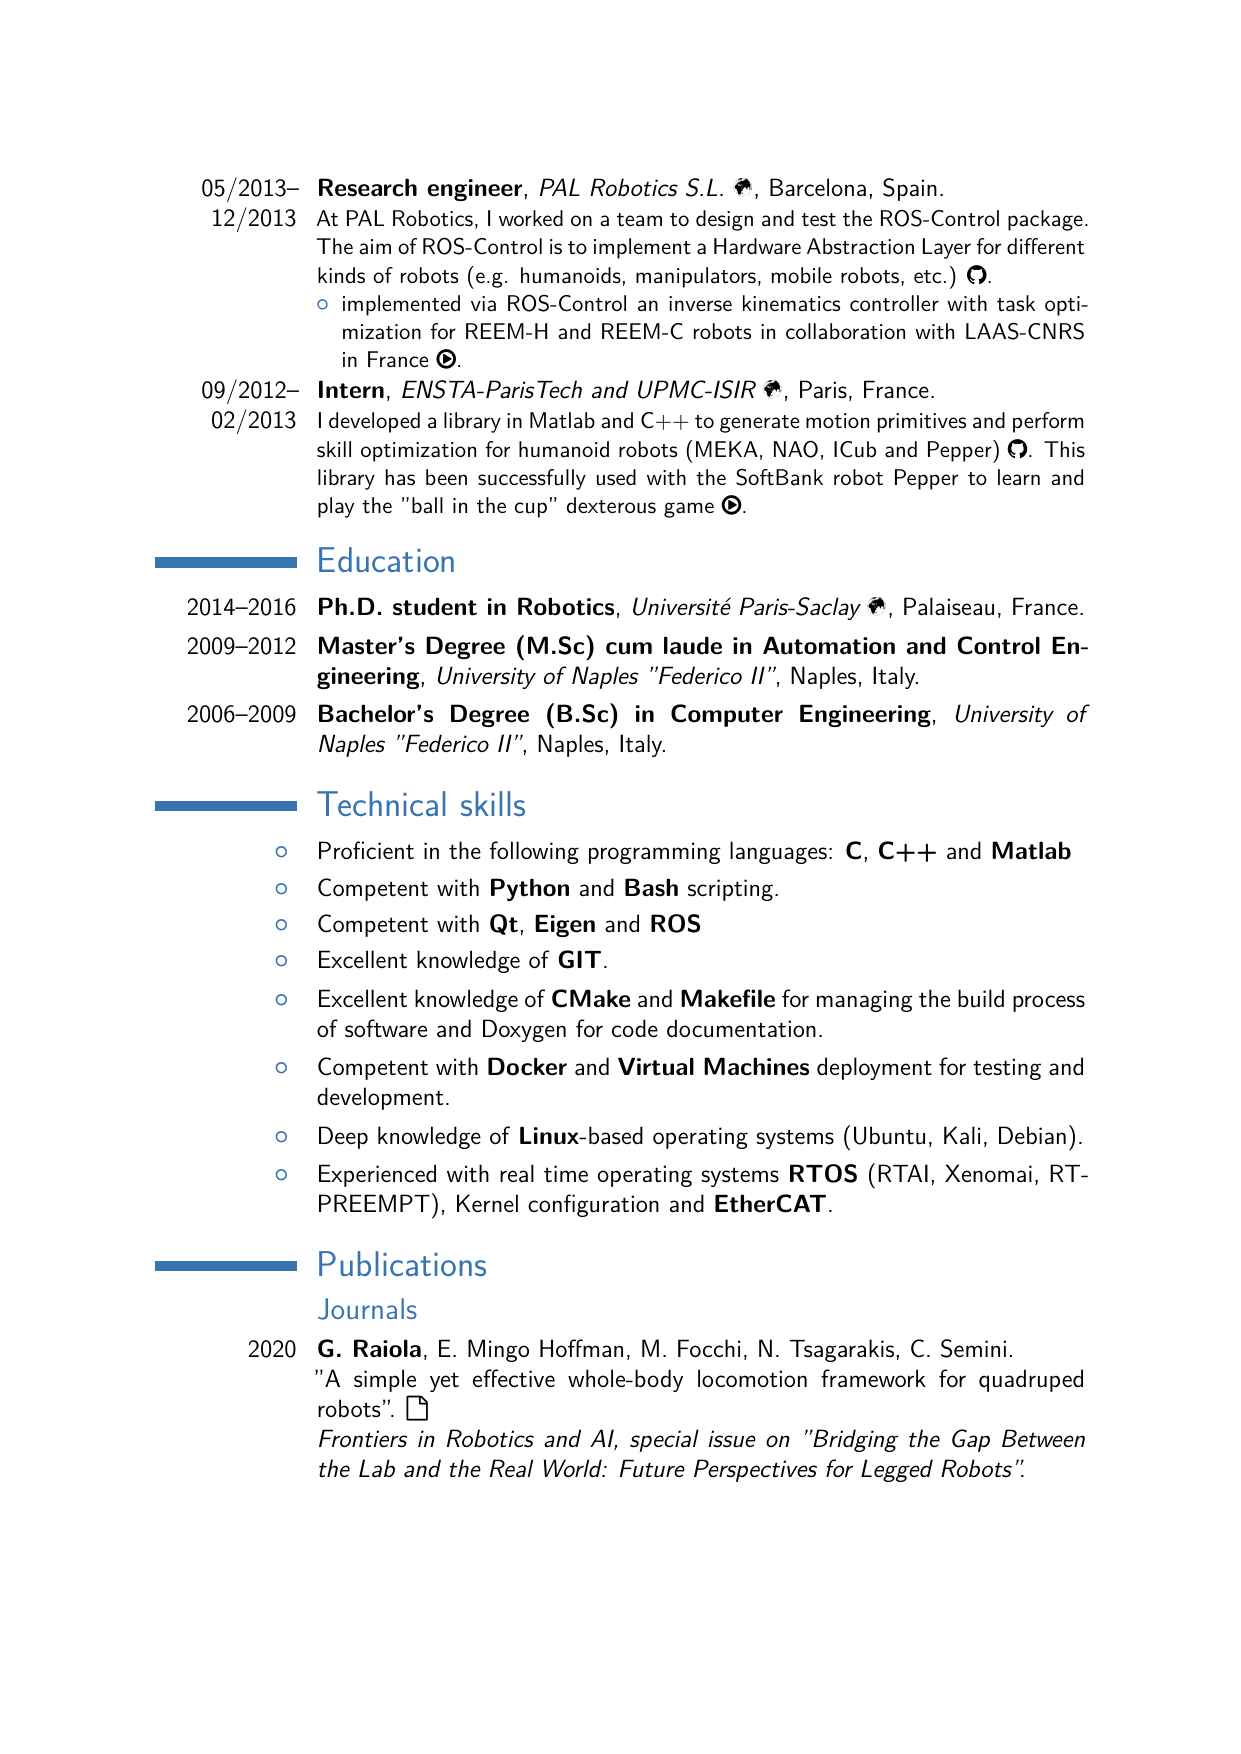
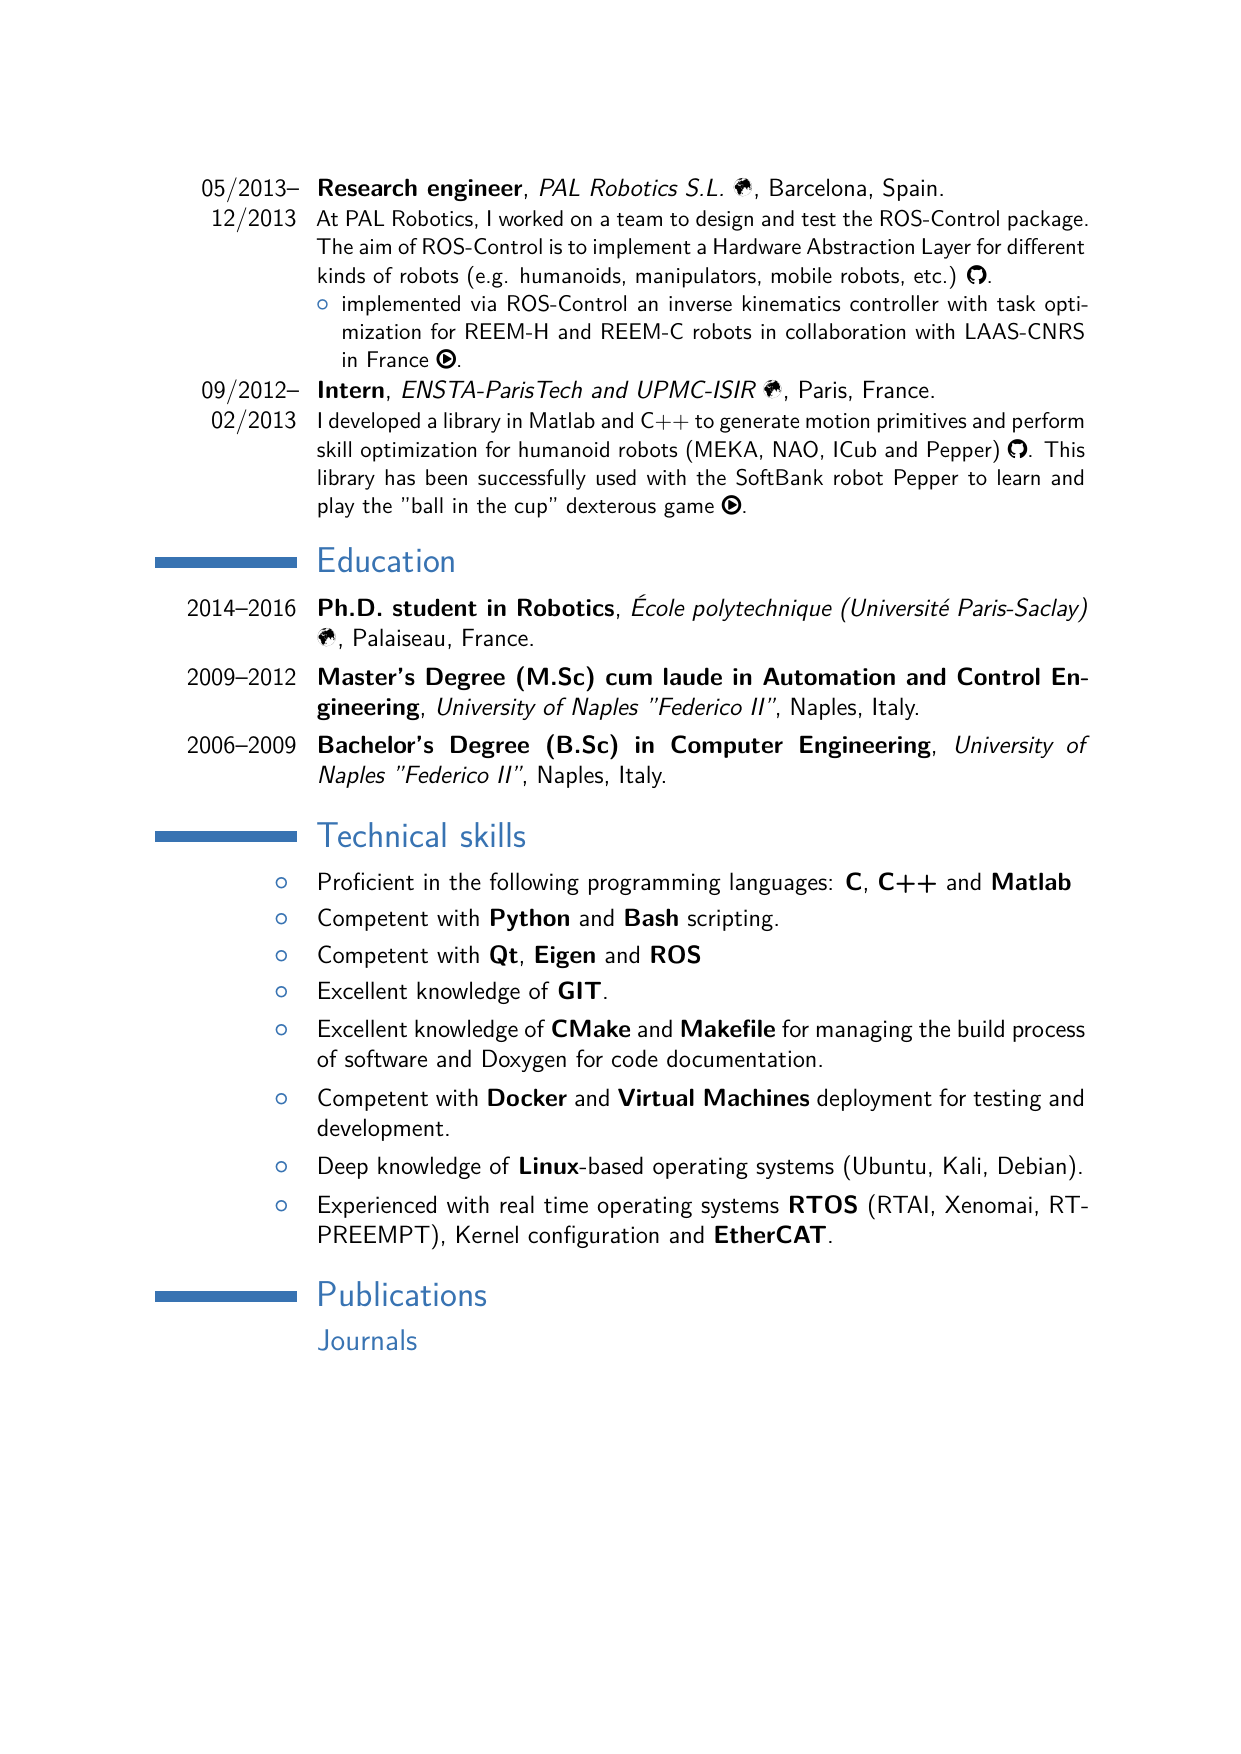
Generated files updated on lun 18 lug 2022, 12.14.04, CEST

Changed region(s): [[0.1225, 0.3387, 0.888, 0.862], [0.7655, 0.4618, 0.8574, 0.5234], [0.7043, 0.4618, 0.7349, 0.5234]]

diff --git a/CV_Gennaro-Raiola.tex b/CV_Gennaro-Raiola.tex
@@ -166,7 +166,7 @@ This library has been successfully used with the SoftBank robot Pepper to learn 
 %----------------------------------------------------------------------------------------
 \section{Education}
 
-\cventry{2014--2016}{Ph.D. student in Robotics}{Université Paris-Saclay \href{https://www.universite-paris-saclay.fr/fr}{\Mundus}}{Palaiseau}{France}{}
+\cventry{2014--2016}{Ph.D. student in Robotics}{École polytechnique (Université Paris-Saclay) \href{https://www.universite-paris-saclay.fr/fr}{\Mundus}}{Palaiseau}{France}{}
 \cventry{2009--2012}{Master's Degree (M.Sc) cum laude in Automation and Control Engineering}{University of Naples "Federico II"}{Naples}{Italy}{}
 \cventry{2006--2009}{Bachelor's Degree (B.Sc) in Computer Engineering}{University of Naples "Federico II"}{Naples}{Italy}{}
 
